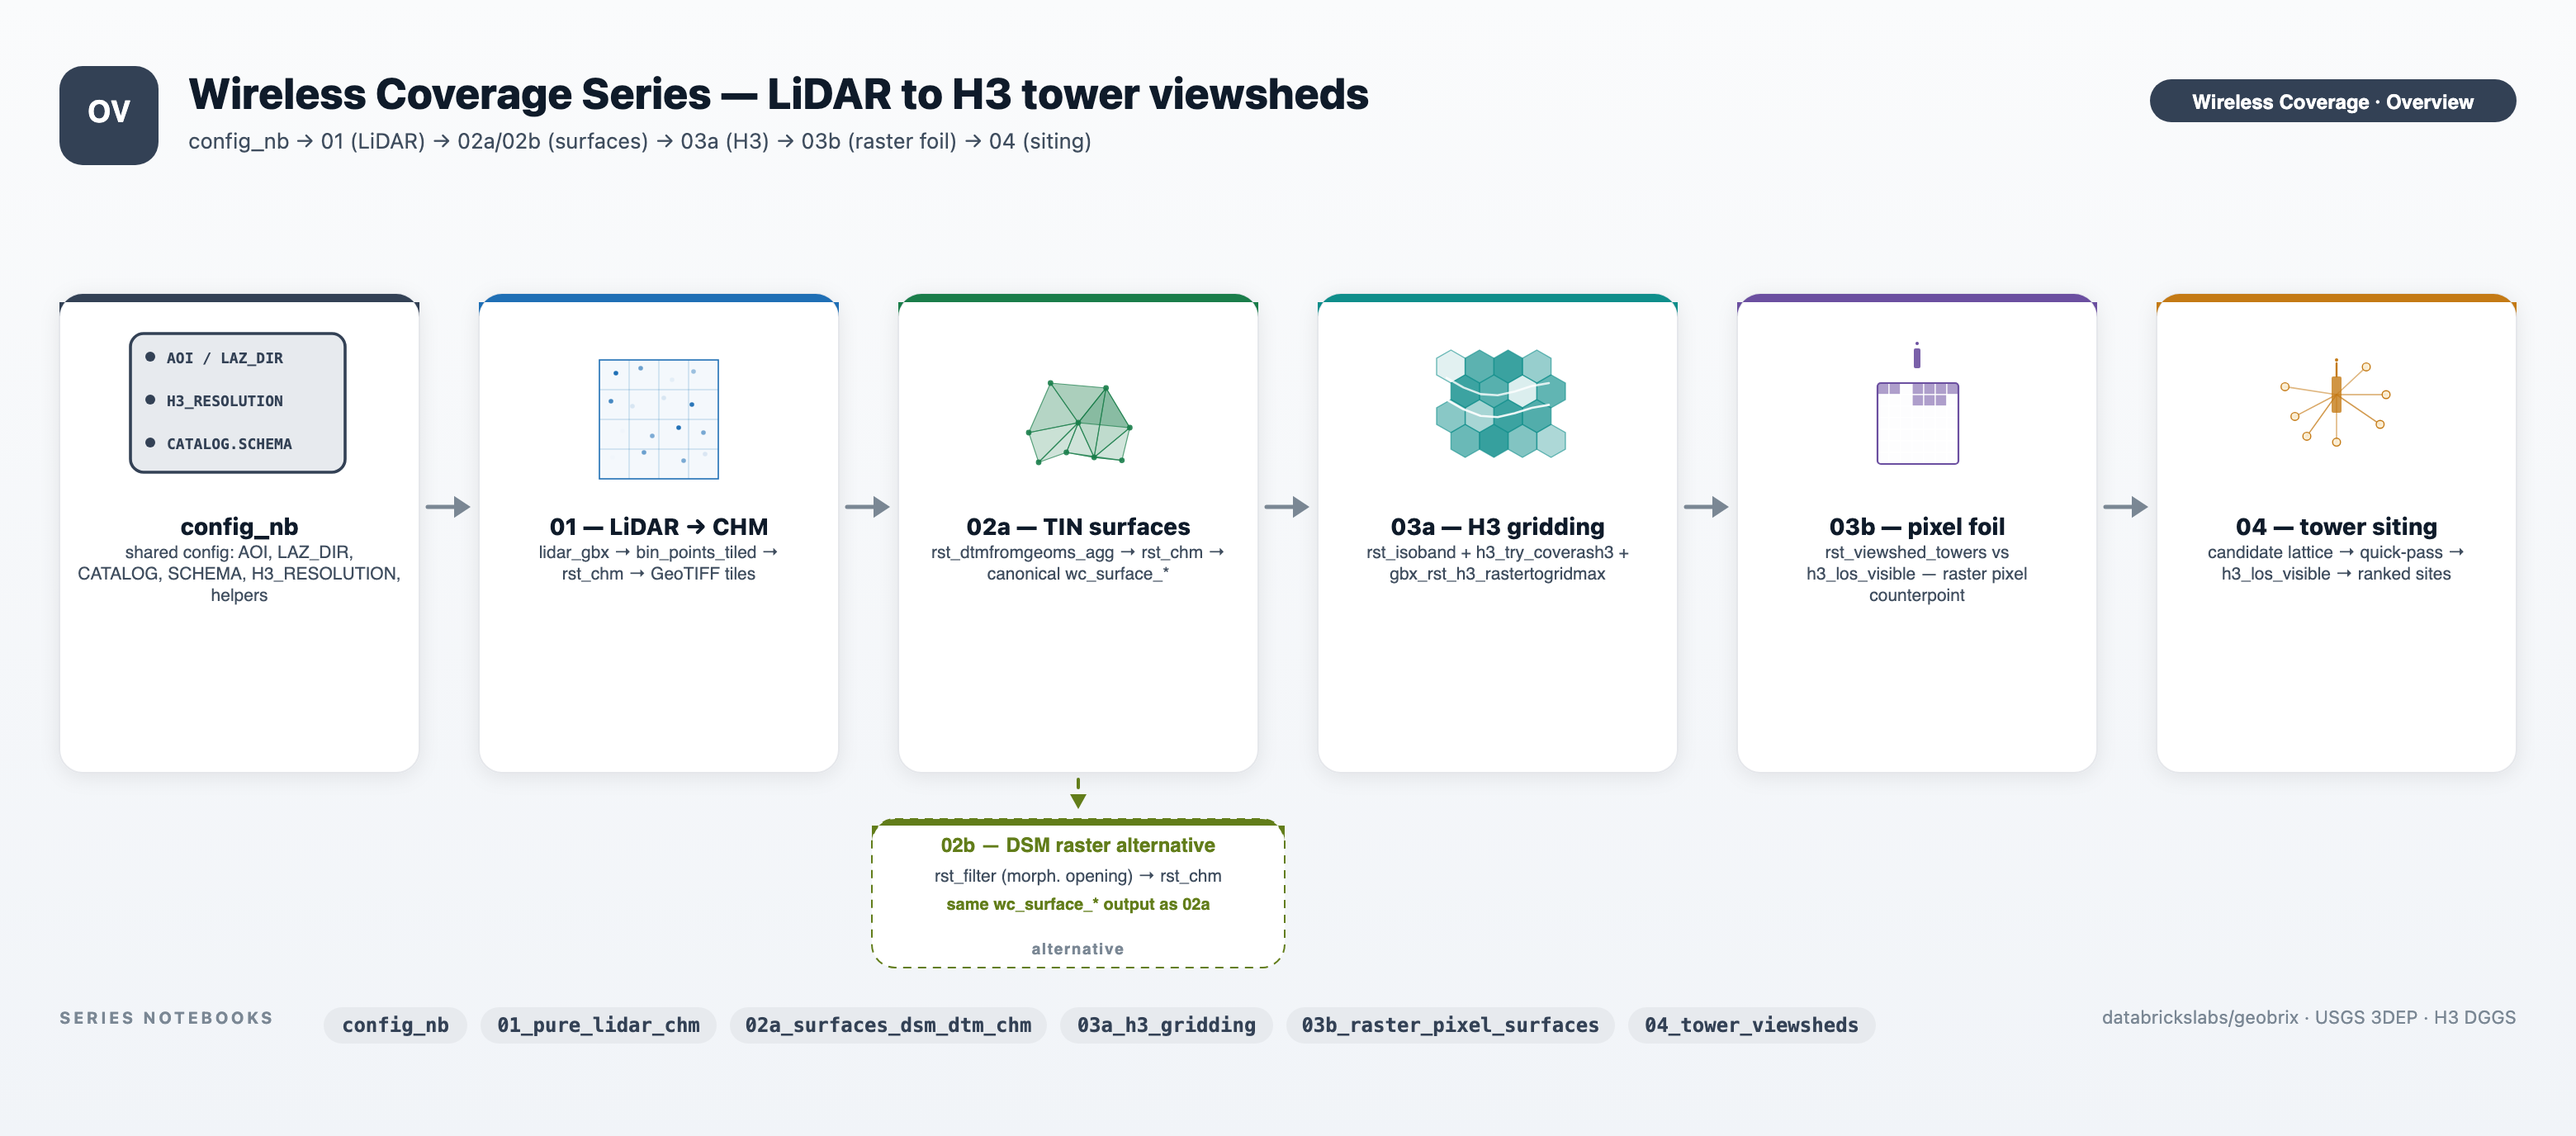
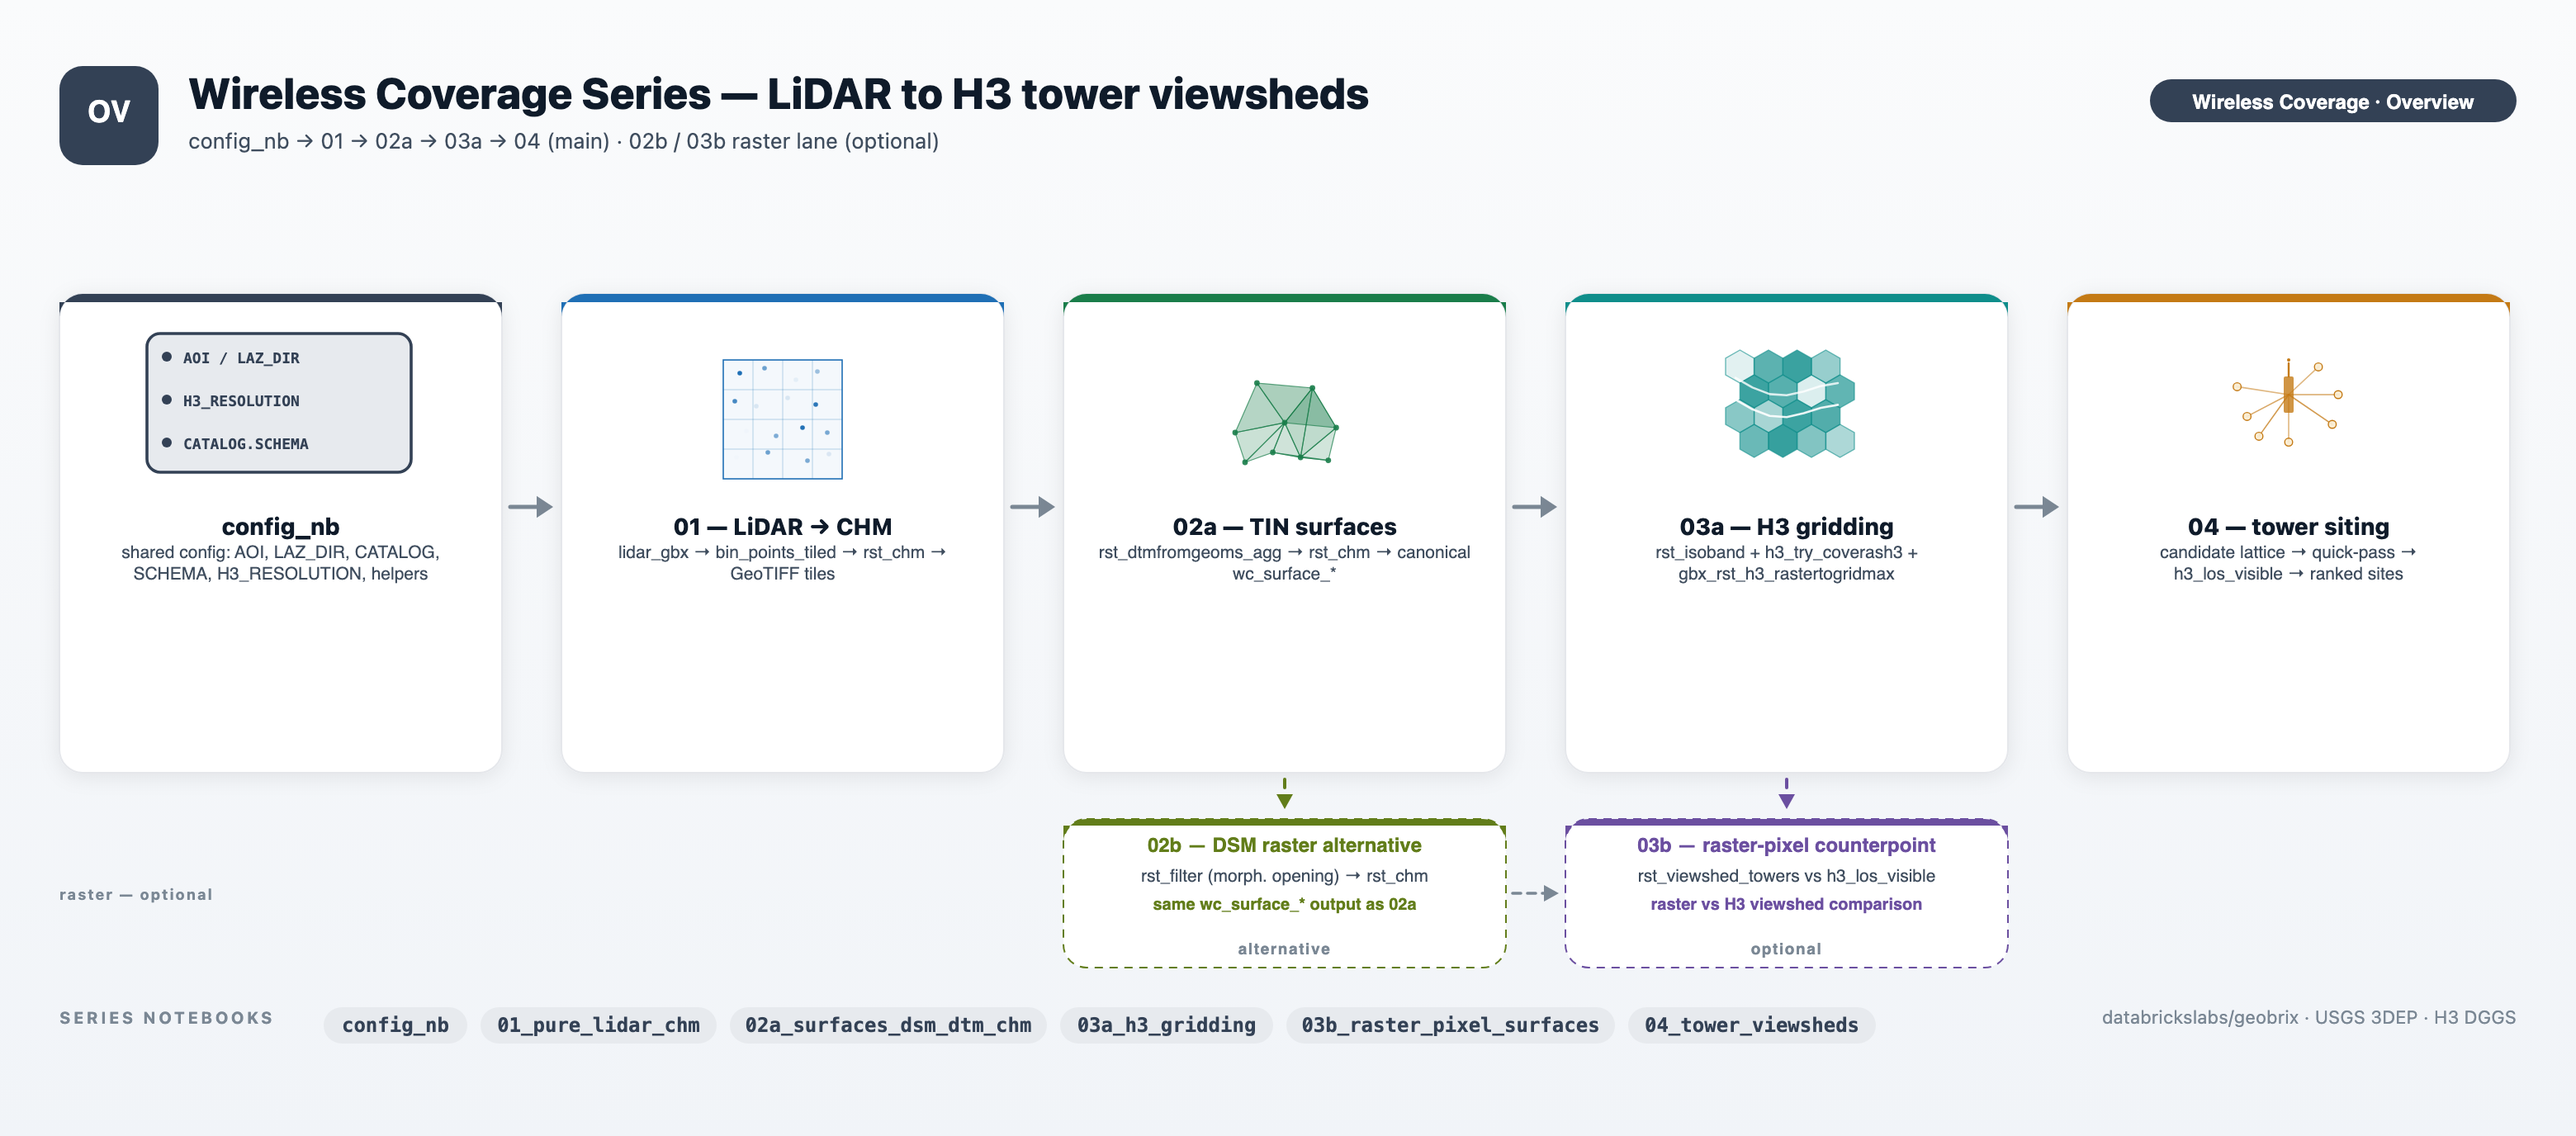
docs(wc): overview — 02b/03b as optional raster lower lane
Restructures the series overview diagram so the main path is clearly
config_nb → 01 → 02a → 03a → 04 (five stages in the top row), while
02b and 03b form a parallel raster exploration lane below.

Changes:
- Remove 03b from OV_STAGES (main row); main row is now 5 stages.
- Track ov3a_anchor alongside ov2a_anchor in the stage loop.
- Render a 03b dashed branch card below 03a (same treatment as 02b
  below 02a): dashed card, colour-coded accent, "optional" footer tag.
- Add dashed down-arrow 03a → 03b (mirrors 02a → 02b).
- Add horizontal dashed through-line arrow 02b → 03b to show the
  raster lane reads left-to-right independently of the main path.
- Add faint "raster — optional" lane label on the left margin.
- Update header subtitle to reflect the new two-tier layout.
- Branch card width = stage_w (268 px) for clean alignment; gives a
  36 px gap between 02b and 03b for the through-line arrow.

SVG still parses as valid XML; no per-notebook diagrams changed.

diff --git a/resources/images/generators/wireless-coverage.py b/resources/images/generators/wireless-coverage.py
@@ -1578,11 +1578,6 @@ OV_STAGES = [
      "subtitle": "rst_isoband + h3_try_coverash3 + gbx_rst_h3_rastertogridmax",
      "glyph": g_three_path_h3,
      "optional": False},
-    {"key": "03b",
-     "title": "03b — pixel foil",
-     "subtitle": "rst_viewshed_towers vs h3_los_visible — raster pixel counterpoint",
-     "glyph": g_raster_viewshed_fan,
-     "optional": False},
     {"key": "04",
      "title": "04 — tower siting",
      "subtitle": "candidate lattice → quick-pass → h3_los_visible → ranked sites",
@@ -1696,7 +1691,7 @@ def render_overview():
     parts.append(text(tx, OV_PAD + 30, "Wireless Coverage Series — LiDAR to H3 tower viewsheds",
                       size=26, weight=800, fill=C_INK))
     parts.append(text(tx, OV_PAD + 54,
-                      "config_nb → 01 (LiDAR) → 02a/02b (surfaces) → 03a (H3) → 03b (raster foil) → 04 (siting)",
+                      "config_nb → 01 → 02a → 03a → 04 (main)   ·   02b / 03b raster lane (optional)",
                       size=13, fill=C_MUTED))
     parts.append(
         f'<rect x="{OV_CANVAS_W - OV_PAD - pw}" y="{OV_PAD + 12}" rx="13" '
@@ -1715,6 +1710,7 @@ def render_overview():
 
     cur_x = OV_PAD
     ov2a_anchor = None  # center-bottom of 02a stage, for the 02b branch connector
+    ov3a_anchor = None  # center-bottom of 03a stage, for the 03b branch connector
 
     for i, stg in enumerate(OV_STAGES):
         key = stg["key"]
@@ -1729,6 +1725,8 @@ def render_overview():
                                            dashed=stg.get("optional", False)))
         if key == "02a":
             ov2a_anchor = (cur_x + stage_w // 2, stage_y + OV_STAGE_H)
+        if key == "03a":
+            ov3a_anchor = (cur_x + stage_w // 2, stage_y + OV_STAGE_H)
 
         cur_x += stage_w
         if i < n - 1:
@@ -1736,39 +1734,80 @@ def render_overview():
                                cur_x + OV_ARROW_W - 5, color=C_MUTED_3))
             cur_x += OV_ARROW_W
 
-    # 02b side branch (alternative path — dashed card below 02a)
+    # Raster optional lane — dashed cards below 02a (02b) and 03a (03b),
+    # connected by a horizontal through-line 02b → 03b.
+    branch_y = stage_y + OV_STAGE_H + OV_BRANCH_GAP
+    bw, bh = stage_w, OV_BRANCH_H  # same width as main stages for clean alignment
+
     if ov2a_anchor:
-        bx_center, by_top = ov2a_anchor
-        branch_y = stage_y + OV_STAGE_H + OV_BRANCH_GAP
-        bw, bh = int(stage_w * 1.15), OV_BRANCH_H
-        bx0 = bx_center - bw // 2
+        bx2_center, by2_top = ov2a_anchor
         acc_2b = THEMES["02b"]["accent"]
-        tint_2b = THEMES["02b"]["tint"]
-        parts.append(arrow_xy(bx_center, by_top + 4, bx_center, branch_y - 6,
+        bx2_0 = bx2_center - bw // 2
+        parts.append(arrow_xy(bx2_center, by2_top + 4, bx2_center, branch_y - 6,
                               color=acc_2b, dash="5 4", width=2))
-        parts.append(_card(bx0, branch_y, bw, bh, dash="5 4", shadow=False, stroke=acc_2b))
-        parts.append(top_stripe(bx0, branch_y, bw, acc_2b, h=4))
-        # Small DSM raster icon
+        parts.append(_card(bx2_0, branch_y, bw, bh, dash="5 4", shadow=False, stroke=acc_2b))
+        parts.append(top_stripe(bx2_0, branch_y, bw, acc_2b, h=4))
         parts.append(
-            f'<text x="{bx_center}" y="{branch_y + 20}" text-anchor="middle" '
+            f'<text x="{bx2_center}" y="{branch_y + 20}" text-anchor="middle" '
             f'font-family="Inter,sans-serif" font-size="12" font-weight="800" '
             f'fill="{acc_2b}">02b — DSM raster alternative</text>'
         )
         parts.append(
-            f'<text x="{bx_center}" y="{branch_y + 38}" text-anchor="middle" '
+            f'<text x="{bx2_center}" y="{branch_y + 38}" text-anchor="middle" '
             f'font-family="Inter,sans-serif" font-size="10.5" fill="{C_MUTED}">'
             f'rst_filter (morph. opening) → rst_chm</text>'
         )
         parts.append(
-            f'<text x="{bx_center}" y="{branch_y + 55}" text-anchor="middle" '
+            f'<text x="{bx2_center}" y="{branch_y + 55}" text-anchor="middle" '
             f'font-family="Inter,sans-serif" font-size="10" font-weight="600" '
             f'fill="{acc_2b}">same wc_surface_* output as 02a</text>'
         )
         parts.append(
-            f'<text x="{bx_center}" y="{branch_y + bh - 8}" text-anchor="middle" '
+            f'<text x="{bx2_center}" y="{branch_y + bh - 8}" text-anchor="middle" '
             f'font-family="Inter,sans-serif" font-size="9.5" font-weight="700" '
             f'fill="{C_MUTED_3}" letter-spacing="0.8">alternative</text>'
         )
+
+    if ov3a_anchor:
+        bx3_center, by3_top = ov3a_anchor
+        acc_3b = THEMES["03b"]["accent"]
+        tint_3b = THEMES["03b"]["tint"]
+        bx3_0 = bx3_center - bw // 2
+        parts.append(arrow_xy(bx3_center, by3_top + 4, bx3_center, branch_y - 6,
+                              color=acc_3b, dash="5 4", width=2))
+        parts.append(_card(bx3_0, branch_y, bw, bh, dash="5 4", shadow=False, stroke=acc_3b))
+        parts.append(top_stripe(bx3_0, branch_y, bw, acc_3b, h=4))
+        parts.append(
+            f'<text x="{bx3_center}" y="{branch_y + 20}" text-anchor="middle" '
+            f'font-family="Inter,sans-serif" font-size="12" font-weight="800" '
+            f'fill="{acc_3b}">03b — raster-pixel counterpoint</text>'
+        )
+        parts.append(
+            f'<text x="{bx3_center}" y="{branch_y + 38}" text-anchor="middle" '
+            f'font-family="Inter,sans-serif" font-size="10.5" fill="{C_MUTED}">'
+            f'rst_viewshed_towers vs h3_los_visible</text>'
+        )
+        parts.append(
+            f'<text x="{bx3_center}" y="{branch_y + 55}" text-anchor="middle" '
+            f'font-family="Inter,sans-serif" font-size="10" font-weight="600" '
+            f'fill="{acc_3b}">raster vs H3 viewshed comparison</text>'
+        )
+        parts.append(
+            f'<text x="{bx3_center}" y="{branch_y + bh - 8}" text-anchor="middle" '
+            f'font-family="Inter,sans-serif" font-size="9.5" font-weight="700" '
+            f'fill="{C_MUTED_3}" letter-spacing="0.8">optional</text>'
+        )
+
+    # Horizontal dashed arrow 02b → 03b through-line
+    if ov2a_anchor and ov3a_anchor:
+        bx2_right = ov2a_anchor[0] + bw // 2
+        bx3_left  = ov3a_anchor[0] - bw // 2
+        arrow_y   = branch_y + bh // 2
+        parts.append(arrow_xy(bx2_right + 4, arrow_y, bx3_left - 4, arrow_y,
+                              color=C_MUTED_3, dash="5 4", width=1.8))
+        # Lane label at the left of the branch row
+        parts.append(text(OV_PAD, arrow_y + 4, "raster — optional",
+                          size=9, weight=700, fill=C_MUTED_3, letter_spacing="0.8"))
 
     # Footer
     fy = OV_CANVAS_H - OV_PAD - OV_FOOTER_H
